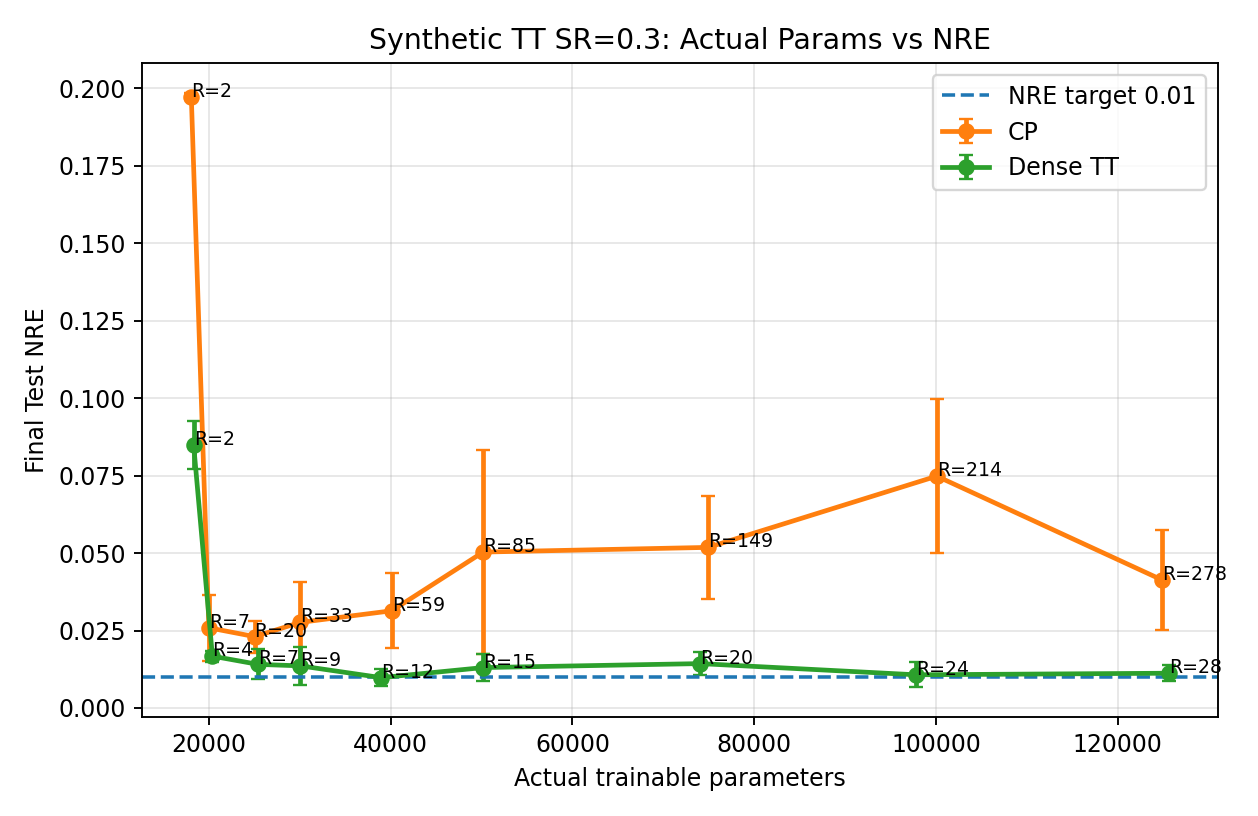
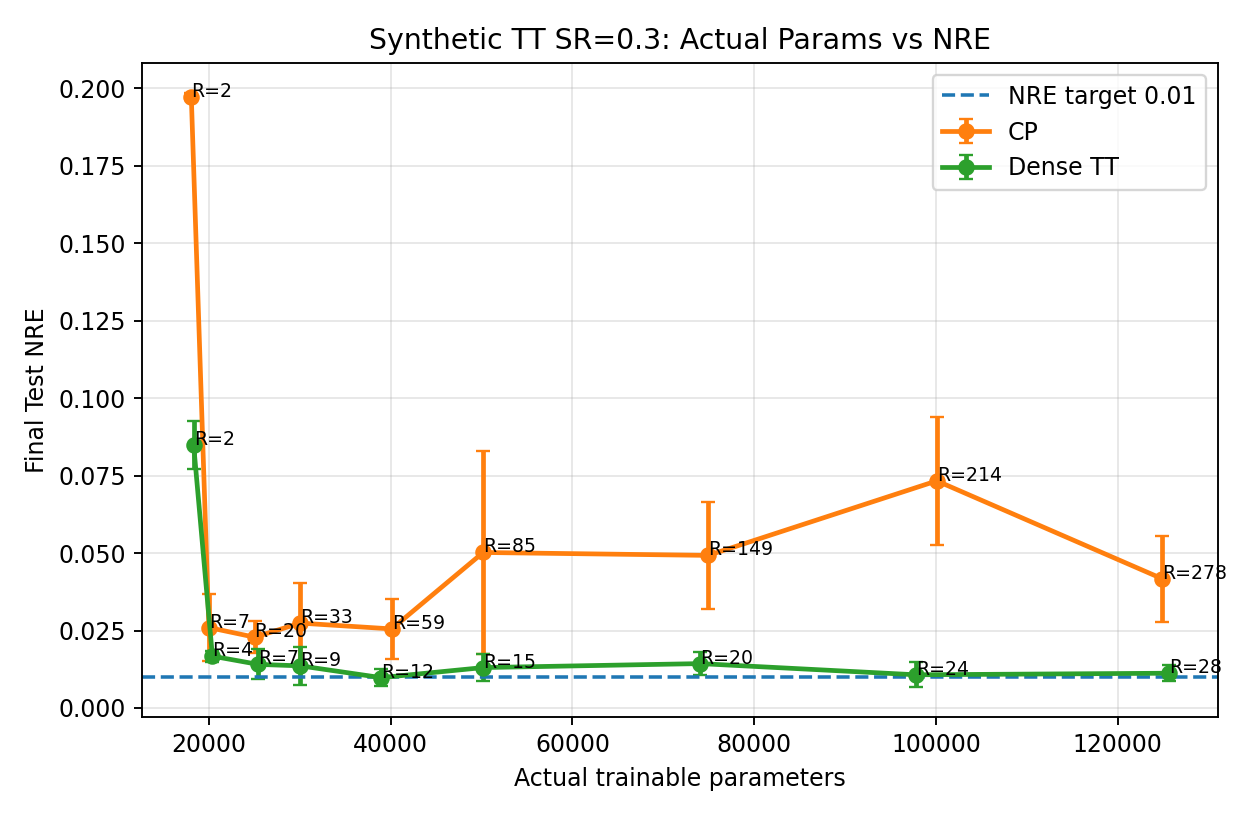
Remove CP core contraction and refresh synthetic TT param-budget outputs

diff --git a/oftd/build_synthetic_tt_param_budget_package.py b/oftd/build_synthetic_tt_param_budget_package.py
@@ -325,6 +325,60 @@ def aggregate_and_plot(raw_path: Path, out_dir: Path, target_nre: float):
     fig.savefig(envelope_plot_path, dpi=170)
     plt.close(fig)
 
+    fig, ax = plt.subplots(figsize=(7.4, 4.8))
+    for model, sub in table.groupby("model"):
+        sub = sub.sort_values("actual_params")
+        ax.plot(
+            sub["actual_params"],
+            sub["total_train_time_s"],
+            marker="o",
+            linewidth=2,
+            label=model,
+            color=colors.get(model),
+        )
+        for _, row in sub.iterrows():
+            ax.annotate(
+                f"R={int(row['R'])}",
+                (row["actual_params"], row["total_train_time_s"]),
+                fontsize=8,
+            )
+    ax.set_title("Synthetic TT SR=0.3: Total Training Time vs Params")
+    ax.set_xlabel("Actual trainable parameters")
+    ax.set_ylabel("Total training time (s)")
+    ax.grid(alpha=0.3)
+    ax.legend()
+    fig.tight_layout()
+    train_time_plot_path = out_dir / "synthetic_tt_actual_params_vs_train_time_sr03.png"
+    fig.savefig(train_time_plot_path, dpi=170)
+    plt.close(fig)
+
+    fig, ax = plt.subplots(figsize=(7.4, 4.8))
+    for model, sub in table.groupby("model"):
+        sub = sub.sort_values("actual_params")
+        ax.plot(
+            sub["actual_params"],
+            sub["avg_update_time_s"],
+            marker="o",
+            linewidth=2,
+            label=model,
+            color=colors.get(model),
+        )
+        for _, row in sub.iterrows():
+            ax.annotate(
+                f"R={int(row['R'])}",
+                (row["actual_params"], row["avg_update_time_s"]),
+                fontsize=8,
+            )
+    ax.set_title("Synthetic TT SR=0.3: Online Update Time vs Params")
+    ax.set_xlabel("Actual trainable parameters")
+    ax.set_ylabel("Average online update time (s)")
+    ax.grid(alpha=0.3)
+    ax.legend()
+    fig.tight_layout()
+    update_time_plot_path = out_dir / "synthetic_tt_actual_params_vs_update_time_sr03.png"
+    fig.savefig(update_time_plot_path, dpi=170)
+    plt.close(fig)
+
     report = [
         "# Synthetic TT Parameter-Budget Matched Sweep",
         "",
@@ -367,6 +421,8 @@ def aggregate_and_plot(raw_path: Path, out_dir: Path, target_nre: float):
     print(f"Saved: {plot_path}")
     print(f"Saved: {actual_plot_path}")
     print(f"Saved: {envelope_plot_path}")
+    print(f"Saved: {train_time_plot_path}")
+    print(f"Saved: {update_time_plot_path}")
     print(f"Saved: {report_path}")
 
 

diff --git a/oftd/model.py b/oftd/model.py
@@ -196,6 +196,9 @@ def make_ftd_optimizer(
 class Online_CP_multi_net(nn.Module): 
     def __init__(self,R1=100,R2=100,R3=100,mid_channel=256,omega_A=1.5,omega_B=1.5,omega_C=1.5):
         super(Online_CP_multi_net, self).__init__()
+        if not (R1 == R2 == R3):
+            raise ValueError("Online_CP_multi_net expects equal CP rank across modes (R1 == R2 == R3).")
+        self.rank = R1
 
         self.A_net = nn.Sequential(SineLayer(1, mid_channel, is_first=True, omega_0 = omega_A),
                                 nn.Linear(mid_channel, R1))
@@ -206,24 +209,13 @@ class Online_CP_multi_net(nn.Module):
         self.C_net = nn.Sequential(SineLayer(1, mid_channel, is_first=True, omega_0 = omega_C),
                                 SineLayer(mid_channel, mid_channel, is_first=True, omega_0 = omega_C),
                                 nn.Linear(mid_channel, R3))
-        self.core = nn.Parameter(torch.Tensor(R1,R2,R3))
-        size = self.core.size(0)
-        self.core = nn.Parameter(torch.zeros(size, size, size), requires_grad=False)
-        for i in range(size):
-            self.core[i, i, i] = 1
         
     def forward(self, A_input, B_input, C_input):
         A = self.A_net(A_input)
         B = self.B_net(B_input)
         C = self.C_net(C_input)
-        
-        centre = self.core.permute(1,2,0)
-        centre = centre @ A.t()
-        centre = centre.permute(2,1,0)
-        centre = centre @ B.t()
-        centre = centre.permute(0,2,1)
-        centre = centre @ C.t()
-        return centre
+        # Direct CP reconstruction: X[i,j,k] = sum_r A[i,r] * B[j,r] * C[k,r]
+        return torch.einsum("ir,jr,kr->ijk", A, B, C)
 
 
 def online_update_single_affine(aa, model, X_train, X_test, mask_train, 

diff --git a/oftd/paper_experiment_package/synthetic_tt_param_budget_sr03/SYNTHETIC_TT_PARAM_BUDGET_SWEEP_SR03.md b/oftd/paper_experiment_package/synthetic_tt_param_budget_sr03/SYNTHETIC_TT_PARAM_BUDGET_SWEEP_SR03.md
@@ -13,28 +13,28 @@ Budgets below about `17k` are impossible with the current INR architecture becau
 
 | model | target_nre | target_status | first_target_params_at_target | actual_params_at_target | R_at_target | nre_at_target_hit | best_R | best_actual_params | best_final_test_nre |
 | --- | --- | --- | --- | --- | --- | --- | --- | --- | --- |
-| CP | 0.01 | not reached |  |  |  |  | 20 | 25020 | 0.023043 |
+| CP | 0.01 | not reached |  |  |  |  | 20 | 25020 | 0.0228513 |
 | Dense TT | 0.01 | reached | 40000 | 38952 | 12 | 0.00980067 | 12 | 38952 | 0.00980067 |
 
 ## Budget-Matched Results
 
 | target_params | model | R | actual_params | param_error | final_test_nre | final_test_nre_std | avg_online_nre_test | total_train_time_s |
 | --- | --- | --- | --- | --- | --- | --- | --- | --- |
-| 18000 | CP | 2 | 18054 | 54 | 0.197349 | 0.00110601 | 0.097505 | 12.514 |
+| 18000 | CP | 2 | 18054 | 54 | 0.197347 | 0.00110805 | 0.0974947 | 5.6878 |
 | 18000 | Dense TT | 2 | 18312 | 312 | 0.084893 | 0.00784277 | 0.0388167 | 14.7448 |
-| 20000 | CP | 7 | 19989 | -11 | 0.0258817 | 0.0106965 | 0.0243893 | 12.8047 |
+| 20000 | CP | 7 | 19989 | -11 | 0.0259623 | 0.0106898 | 0.024446 | 5.73287 |
 | 20000 | Dense TT | 4 | 20376 | 376 | 0.0167363 | 0.00173516 | 0.0192783 | 14.9627 |
-| 25000 | CP | 20 | 25020 | 20 | 0.023043 | 0.00518724 | 0.0289287 | 13.3707 |
+| 25000 | CP | 20 | 25020 | 20 | 0.0228513 | 0.0052223 | 0.028913 | 5.88087 |
 | 25000 | Dense TT | 7 | 25407 | 407 | 0.014074 | 0.00482394 | 0.0184553 | 15.2532 |
-| 30000 | CP | 33 | 30051 | 51 | 0.027636 | 0.0130885 | 0.0366983 | 13.9567 |
+| 30000 | CP | 33 | 30051 | 51 | 0.0273973 | 0.0130546 | 0.0366703 | 5.9367 |
 | 30000 | Dense TT | 9 | 30051 | 51 | 0.0136003 | 0.00616162 | 0.018291 | 16.0127 |
-| 40000 | CP | 59 | 40113 | 113 | 0.0313773 | 0.012093 | 0.053217 | 16.5385 |
+| 40000 | CP | 59 | 40113 | 113 | 0.0255233 | 0.00981756 | 0.052368 | 6.07367 |
 | 40000 | Dense TT | 12 | 38952 | -1048 | 0.00980067 | 0.0026792 | 0.0202283 | 15.6149 |
-| 50000 | CP | 85 | 50175 | 175 | 0.050329 | 0.0328344 | 0.051799 | 20.596 |
+| 50000 | CP | 85 | 50175 | 175 | 0.0501953 | 0.0326939 | 0.051737 | 6.23167 |
 | 50000 | Dense TT | 15 | 50175 | 175 | 0.0130457 | 0.00436987 | 0.019391 | 15.8703 |
-| 75000 | CP | 149 | 74943 | -57 | 0.05184 | 0.0165378 | 0.0746327 | 43.6595 |
+| 75000 | CP | 149 | 74943 | -57 | 0.0492557 | 0.0172039 | 0.0742293 | 6.46813 |
 | 75000 | Dense TT | 20 | 74040 | -960 | 0.0143287 | 0.00377266 | 0.0194723 | 16.5376 |
-| 100000 | CP | 214 | 100098 | 98 | 0.0748333 | 0.0249572 | 0.102538 | 82.0942 |
+| 100000 | CP | 214 | 100098 | 98 | 0.0733147 | 0.0205715 | 0.102448 | 6.70533 |
 | 100000 | Dense TT | 24 | 97776 | -2224 | 0.0107193 | 0.00401742 | 0.0181877 | 16.7468 |
-| 125000 | CP | 278 | 124866 | -134 | 0.0413547 | 0.0162094 | 0.0779183 | 162.096 |
+| 125000 | CP | 278 | 124866 | -134 | 0.041773 | 0.0138874 | 0.0782033 | 6.81777 |
 | 125000 | Dense TT | 28 | 125640 | 640 | 0.0112257 | 0.00250884 | 0.0176143 | 17.35 |
